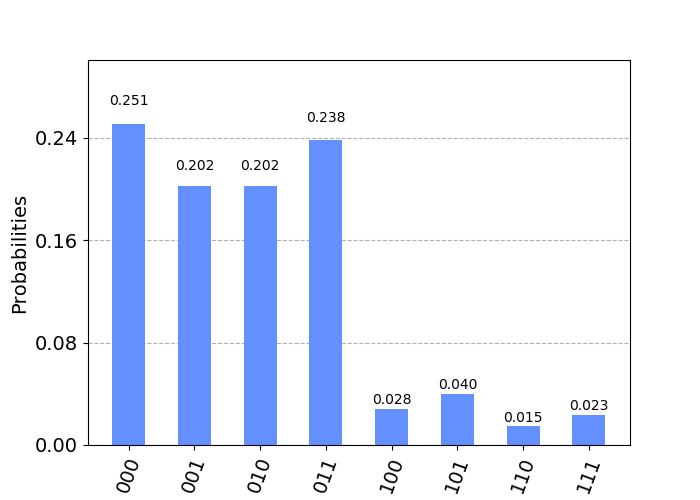
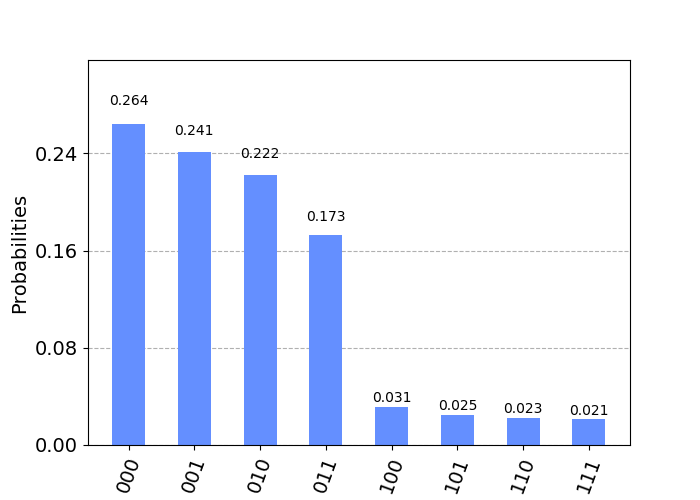
superdense coding update

diff --git a/superdense_coding/main.py b/superdense_coding/main.py
@@ -1,0 +1,85 @@
+import qiskit as qk
+
+shots = 256
+bits = '01'
+
+# Build circuit
+def build_circuit():
+    qc = qk.QuantumCircuit(2, 2)
+    qc.barrier()
+
+    # prepare bell states
+    qc.h(0)
+    qc.cx(0, 1)
+    qc.barrier()
+
+    # encode
+    if bits == '11':
+        qc.z(0)
+        qc.x(0)
+
+    elif bits == '01':
+        qc.z(0)
+
+    elif bits == '10':
+        qc.x(0)
+
+    qc.barrier()
+
+    # Alice send the qubit to Bob
+
+    # Bob receives qubit 0. Applies the recovery protocol
+    qc.cx(0, 1)
+    qc.h(0)
+    qc.barrier()
+
+    # take final measurements to see if the result is correct
+    qc.measure(0, 0)
+    qc.measure(1, 1)
+
+    # print circuit
+    qc.draw(output='mpl').savefig('circuit.png')
+    print('Circuit built. Circuit image saved locally.')
+
+    return qc
+
+def local_sim(qc):
+    print('Simulation started.')
+    backend = qk.Aer.get_backend('qasm_simulator') 
+    job_sim = qk.execute(qc, backend)
+    sim_result = job_sim.result()
+    print('Simulation finished.')
+
+    measurement_result = sim_result.get_counts(qc)
+    print('Simulation result:', measurement_result)
+    qk.visualization.plot_histogram(measurement_result).savefig('local_sim.png')
+    print('Simulation plotted and saved locally.')
+
+def leastBusy_device_exp(qc):
+    print('Experiment started.')
+    print('Loading account...')
+    qk.IBMQ.load_account()
+    print('Account loaded')
+    print('Finding backend...')
+    provider = qk.IBMQ.get_provider(hub='ibm-q')
+    backend = qk.providers.ibmq.least_busy(provider.backends(filters=lambda x:
+        x.configuration().n_qubits >= 2 and
+        not x.configuration().simulator and 
+        x.status().operational==True))
+    print('Using backend:', backend)
+    print('Job started.')
+    job = qk.execute(qc, backend=backend, shots=shots)
+    qk.tools.monitor.job_monitor(job)
+    result = job.result()
+    result_count = result.get_counts()
+    print('Result:', result_count)
+    qk.visualization.plot_histogram(result_count).savefig('exp_result.png')
+    print('Result plotted and saved locally.')
+    accuracy = result_count[bits]/float(shots)
+    print('Accuracy:', accuracy)
+
+        
+
+if __name__ == "__main__":
+    leastBusy_device_exp(build_circuit())
+    

diff --git a/quantum_transportation/quantum_teleportation.py b/quantum_transportation/quantum_teleportation.py
@@ -8,6 +8,10 @@ qk.IBMQ.load_account()
 
 print('getting provider...')
 provider = qk.IBMQ.get_provider(hub='ibm-q')
+
+# use NTU hub
+
+
 # for be in provider.backends():
     # print(be)
 
